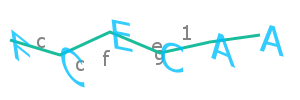
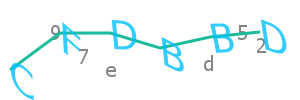
attempt to make verification system v2

Changed region(s): [[0.03, 0.18, 0.96, 1.0]]

diff --git a/modules/verify-captcha.js b/modules/verify-captcha.js
@@ -1,8 +1,9 @@
-const { MessageEmbed } = require('discord.js')
+const { MessageEmbed, MessageAttachment } = require('discord.js')
 const { CaptchaGenerator } = require('captcha-canvas')
 const fs = require('fs')
 const emojis = require('../utils/emojis.json')
 const { botname } = require('../config.json')
+const path = require('path')
 
 module.exports = (client) => {
     client.on('guildMemberAdd', async (member) => {
@@ -21,29 +22,57 @@ module.exports = (client) => {
         fs.writeFileSync('./assets/captcha/image.png', buffer)
 
         const embed = new MessageEmbed()
+        .setAuthor(guild.name, guild.iconURL())
         .setTitle('Verification System')
         .setDescription(
-            `${emojis.group} You need to message the given captcha in order to access **<@${guild.name}**\n` +
+            `${emojis.group} You need to message the given captcha in order to access **${guild.name}**\n` +
             `${emojis.warning} **Things to be noted while filling captcha:**\n` +
             `${emojis.blank} ${emojis.checklist} Type the colored characters from Left to Right.\n` +
             `${emojis.blank} ${emojis.rulesgray} Ignore the light gray characters as they are decoy characters.\n` +
             `${emojis.blank} ${emojis.capitalization} All the characters are to be typed capitalized, small letters won't be considered.\n` +
             `${emojis.blank} ${emojis.slowmode} You only have 15 seconds to complete the verification process.`,
         )
-        .setImage('./assets/captcha/image.png')
         .setFooter(botname)
         .setTimestamp()
         .setColor('#1ABC9C')
-        member.send({ embeds: [embed] }) // Sends the captcha to the user
+        const msg = await member.send({ embeds: [embed], files: ['./assets/captcha/image.png'] }) // Sends the captcha to the user
 
         const filter = (m) => { return m.author.id === member.id } // Filters the message to the user
-        const msgs = await member.user.dmChannel.awaitMessages({ filter, max: 1, time: 15000 })
-        if(!msgs.size) return
+        const msgs = await msg.channel.awaitMessages({ filter, max: 1, time: 15000 })
+        if(!msgs.size) {
+            const guildInvite = await guild.invites.create(guild.channels.cache.filter(ch => ch.type === 'GUILD_TEXT' && ch.rawPosition === 0).first(), { maxUses: 1, maxAge: 300 }) // Creates an invite for the user to join the server
+            member.kick('Member didn\'t verified captcha in time.')
+            const sizeEmbed = new MessageEmbed()
+            .setAuthor(guild.name, guild.iconURL())
+            .setTitle('Verification System')
+            .setDescription(`${emojis.error} You were kicked from **${guild.name}** as you failed to answer the captcha in time.\n${emojis.doubleArrow} You can re-attempt to join the server by clicking [here](${guildInvite})`)
+            .setFooter(botname)
+            .setTimestamp()
+            .setColor('RED')
+            return await member.send({ embeds: [sizeEmbed] }) // Sends the embed to the user
+        }
         console.log(msgs.first().content)
         if(msgs.first().content === captcha.text) {
             member.roles.remove(quarantinedRole) // Removes the quarantined role from the user
+            const correctEmbed = new MessageEmbed()
+            .setAuthor(guild.name, guild.iconURL())
+            .setTitle('Verification System')
+            .setDescription(`${emojis.success} You successfully verified the captcha and you can access the server and chat!`)
+            .setFooter(botname)
+            .setTimestamp()
+            .setColor('GREEN')
+            return await member.send({ embeds: [correctEmbed] }) // Sends the embed to the user
        } else {
-            member.kick(`${member.user.tag} was kicked for not verifying their captcha.`) // Kicks the user
-       }
+        const guildInvite = await guild.invites.create(guild.channels.cache.filter(ch => ch.type === 'GUILD_TEXT' && ch.rawPosition === 0).first(), { maxUses: 1, maxAge: 300 }) // Creates an invite for the user to join the server
+        member.kick('Member didn\'t verified captcha correctly.')
+        const incorrectEmbed = new MessageEmbed()
+        .setAuthor(guild.name, guild.iconURL())
+        .setTitle('Verification System')
+        .setDescription(`${emojis.error} You were kicked from **${guild.name}** as you failed to answer the captcha correctly.\n${emojis.doubleArrow} You can re-attempt to join the server by clicking [here](${guildInvite})`)
+        .setFooter(botname)
+        .setTimestamp()
+        .setColor('RED')
+        return await member.send({ embeds: [incorrectEmbed] }) // Sends the embed to the user
+   }
     })
 }
